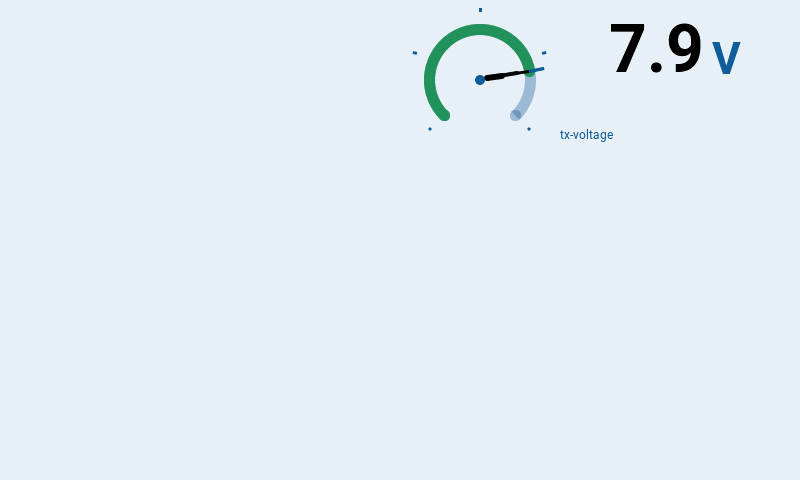
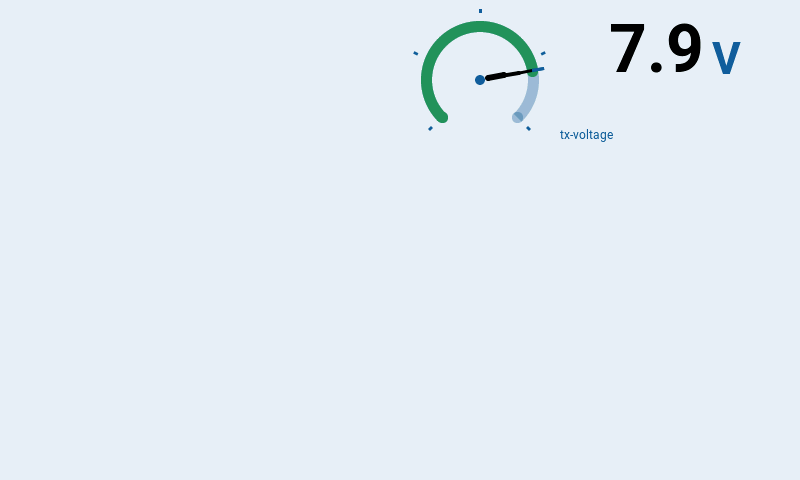
fix(gaugepro): resolve tick positioning issue by adjusting reference band handling and update related tests

Changed region(s): [[0.5, 0.0312, 0.6875, 0.25]]

diff --git a/WIDGETS/GaugePro/docs/visual-kit/INFORME-DEFECTOS.md b/WIDGETS/GaugePro/docs/visual-kit/INFORME-DEFECTOS.md
@@ -26,7 +26,7 @@ Clasificación:
 |---|---|---|---|
 | [F-01](#f-01) | **P0 — RESUELTO** | Cualquier `lvgl.set()` sobre un arco/círculo ya construido lo desplaza (defecto del binding LVGL, no de Gauge Pro) | Corregido en `renderer.lua` reenviando el centro en cada `lvgl.set`; verificado en 9 configuraciones reales |
 | [H-01](#h-01) | **P0 — RESUELTO** | El arnés ignoraba el `zone` declarado por cada caso: 210 de 222 casos se renderizaban a pantalla completa | Corregido: routing por zona real + columna "Zone (real)" en CATALOG.md + `verify_dupes.py` conectado (degrada a WARN); verificado contra el simulador real |
-| [W-01](#w-01) | **P1** | Los ticks de escala se dibujan a un radio muy superior al del anillo, en un hueco vacío | Ticks "flotando" desconectados del dial; en zonas reales se salen de la zona y pisan al widget vecino |
+| [W-01](#w-01) | **P1 — RESUELTO** | Los ticks de escala se dibujaban a un radio muy superior al del anillo, en un hueco vacío | `layout.lua` reserva la banda exterior sólo en Rail/Sections; los modos sin banda vuelven a pegar sus ticks al track y no invaden la zona vecina |
 | [W-02](#w-02) | **P1** | El píldora de estado (WARN/CRIT) se recorta contra el borde inferior de la zona | Badge cortado por la mitad en layouts anchos |
 | [W-03](#w-03) | **P1** | La cara `continuous` pinta el track inactivo a opacidad plena (las caras segmentadas no) | El tramo vacío compite (o gana) al tramo lleno; en CRIT el vacío es lo más brillante de la barra |
 | [W-06](#w-06) | **P1** | `BarOrigin = Zero` sólo dibuja la marca de cero: el relleno sigue naciendo en el extremo bajo de la escala | La opción parece funcionar (aparece la marca) pero no cambia lo que mide la barra, en 4 de las 5 caras |
@@ -509,9 +509,27 @@ son ruido esperado y no repita esta misma investigación.
 
 ---
 
-## W-01 — Los ticks de escala se dibujan muy por fuera del anillo {#w-01}
+## W-01 — Los ticks de escala se dibujaban muy por fuera del anillo — RESUELTO {#w-01}
 
-**Severidad: P1.**
+**Severidad: P1 — corregido en `layout.lua` y verificado con el simulador real de EdgeTX.**
+
+### Revisión 2026-08-10 — confirmación, arreglo y verificación
+
+W-01 **seguía siendo un defecto** en la segunda tanda: Static, Threshold y Gradient no dibujan banda de referencia pero mantenían su hueco. El cálculo de `outerReserve`, `railOut` y `railRadius` descontaba `railThickness + railGap` incondicionalmente.
+
+El arreglo introduce `L.hasReferenceBand`: sólo Rail (3) y Sections (5) reservan esa franja. El mismo `referenceBandReserve` gobierna tanto el radio del dial como la contención y la posición de los ticks.
+
+Medición sobre los PNG regenerados, a lo largo del radio vertical superior del dial 400×160 (centro `(480,80)`):
+
+| Caso | Tinta de tick | Banda exterior / track | Resultado |
+|---|---|---|---|
+| Static (`005`) | y=9…12 | track y=21…31 | sólo el `tickGap` intencional (8 filas rasterizadas), frente al hueco de ~15 px anterior |
+| Threshold (`007`) | y=9…12 | track y=21…31 | igual que Static |
+| Gradient (`011`) | y=9…12 | track y=21…31 | igual que Static |
+| Rail (`009`) | y=9…12 | banda y=16…18, track y=25…35 | conserva la separación necesaria para la banda pintada |
+| Sections (`013`) | y=9…12 | banda y=16…18, track y=25…35 | conserva la separación necesaria para la banda pintada |
+
+En la captura regenerada de `L05_layout2p3_dial_vs_bar.png`, el píxel superior de tick del dial inferior izquierdo es ahora **y=252**, dentro de su zona `y=240…479`; el caso histórico que alcanzaba y=247 y pisaba la zona superior ya no se reproduce. La regresión `W-01` en `tests/smoke_test.lua` comprueba los tres modos sin banda, los dos con banda y la contención en todos ellos.
 
 ### Evidencia
 
@@ -544,30 +562,23 @@ inferior izquierdo tiene los ticks a r≈101…119 con el borde exterior del ani
 en r≈90 — y el tick superior cae en **y=247**, dentro de los 240 px de la zona
 de arriba: **pisa el widget vecino**.
 
-### Remediación propuesta
+### Remediación aplicada
 
 En [layout.lua:502-505](../../layout.lua#L502), reservar el anillo de rail sólo
 cuando se va a usar, y acercar los ticks al anillo:
 
 ```lua
--- El hueco de la banda de rail sólo existe si hay banda que dibujar; en los
--- modos sin banda los ticks se pegan al anillo en lugar de quedar flotando a
--- 15 px de él (INFORME-DEFECTOS.md W-01).
-local hasBand = (cfg.colorMode == M.COLOR_RAIL)
-             or (cfg.colorMode == M.COLOR_SECTIONS)
-L.railRadius = L.radius + floor(L.trackThickness / 2)
-             + (hasBand and (L.railThickness + L.railGap) or 0)
+local hasBand = cfg.colorMode == M.COLOR_RAIL
+             or cfg.colorMode == M.COLOR_SECTIONS
+local referenceBandReserve = hasBand
+  and (L.railThickness + L.railGap) or 0
+local outerReserve = floor(L.trackThickness / 2) + referenceBandReserve
+  + tickGap + tickLength + 1
+L.railRadius = L.radius + floor(L.trackThickness / 2) + referenceBandReserve
 L.tickInner  = L.railRadius + tickGap
 ```
 
-Ojo: `outerReserve` ([layout.lua:462](../../layout.lua#L462)) usa el mismo
-presupuesto para *elegir* el radio, así que debe consultar el mismo `hasBand`;
-si no, el dial se encoge para reservar sitio que ya no usa. Conviene extraer
-`hasBand` **antes** del cálculo de `outerReserve` y usarlo en los dos sitios.
-
-Verificación: los ticks deben quedar en `[radius + trackThickness/2 + gap,
-+ tickLength]` y `L.tickOuter <= edgeReach` debe seguir cumpliéndose (la
-aserción de contención de [layout.lua:492](../../layout.lua#L492) ya existe).
+`railOut` usa el mismo `referenceBandReserve` durante la contención. Así los ticks de los modos sin banda quedan en `[radius + trackThickness/2 + tickGap, + tickLength]`, mientras que `L.tickOuter <= edgeReach` sigue cubierto por la regresión.
 
 ---
 
